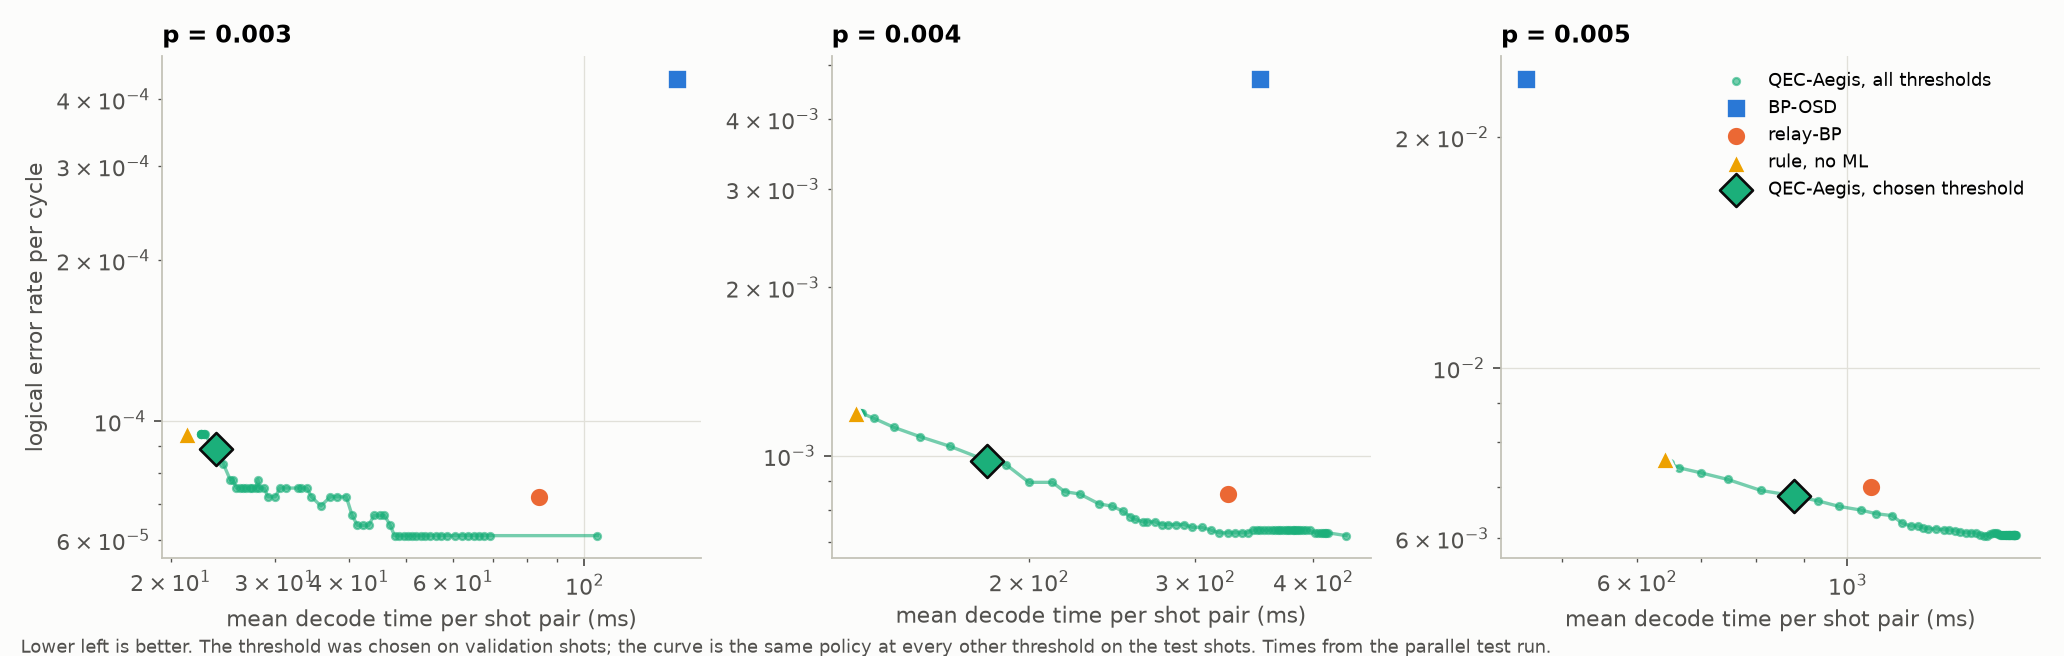
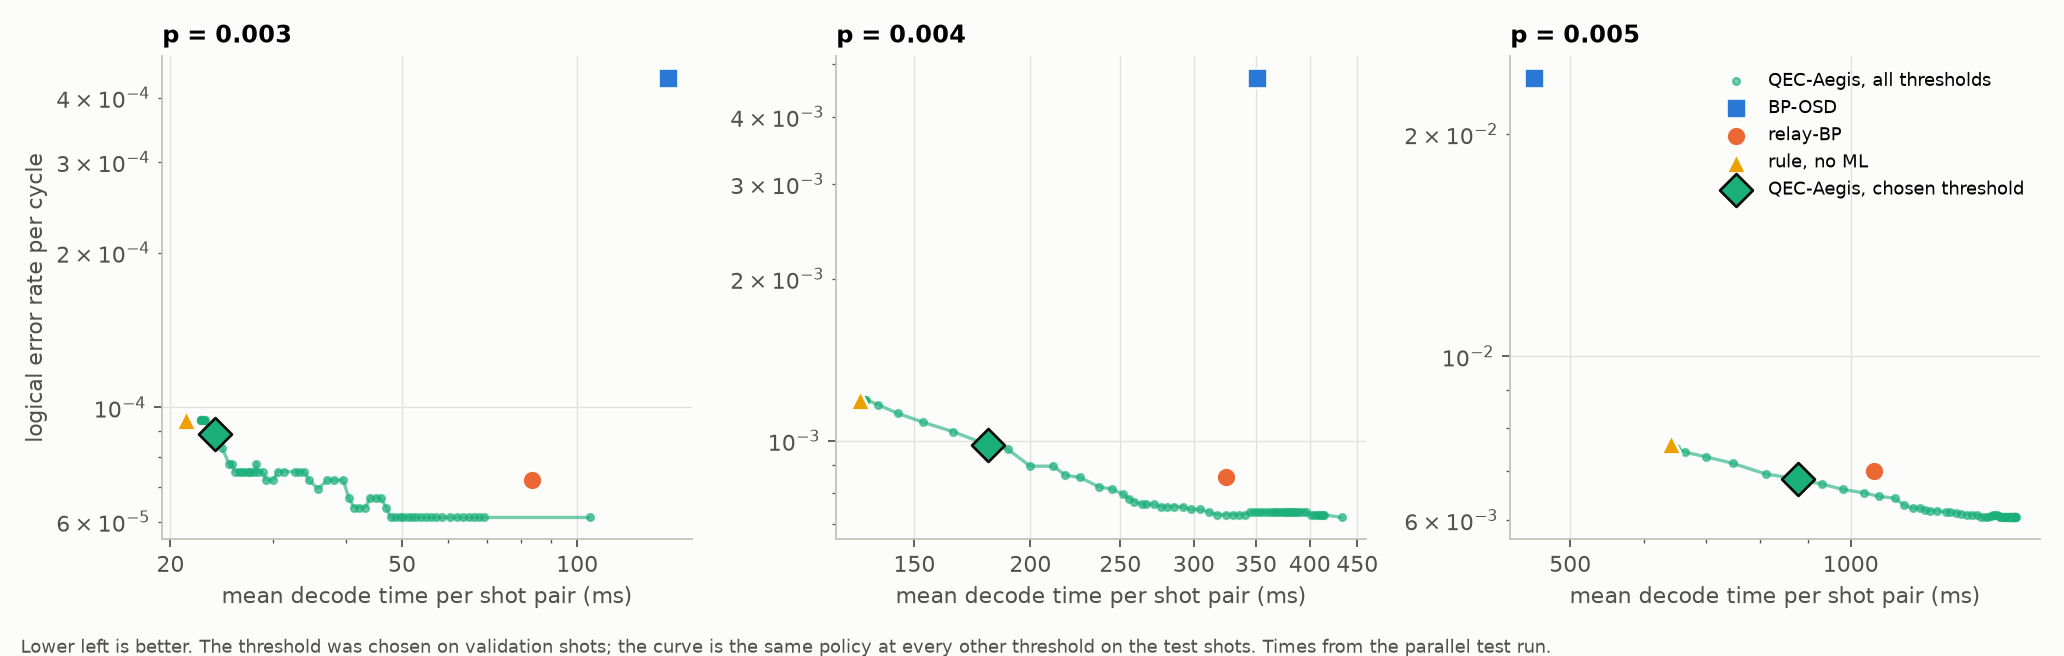
Show every figure: gallery page, README plots, layout fixes
- docs/FIGURES.md: all 13 figures (QEC-Aegis and the erasure study), each
  with what it shows and how to read it.
- README: full-width latency and trade-off plots, plus calibration and
  routing under "Why the machine learning works"; links to the gallery.
- docs/EVALUATION.md: embeds the v1 and v2 plots next to their results.
- aegis/figures.py: captions no longer overlap the axes (v2_latency), plain
  log tick labels (pareto, loss, v2_tradeoff), and routing labels sit above
  their bars and show 0.045% instead of 0.0%.

diff --git a/aegis/figures.py b/aegis/figures.py
@@ -46,12 +46,20 @@ def rows(result):
             for key in STYLE if key == "aegis" or key in result["decoders"]}
 
 
-def save(fig, name):
+def save(fig, name, caption_lines=0):
+    """caption_lines: lines of fig.text caption at the bottom; the axes are kept clear of them."""
     FIGURES.mkdir(parents=True, exist_ok=True)
-    fig.tight_layout()
+    fig.tight_layout(rect=(0, 0.035 * caption_lines, 1, 1))
     fig.savefig(FIGURES / name, dpi=160)
     plt.close(fig)
     print("wrote", FIGURES / name)
+
+
+def plain_log_ticks(axis):
+    """Log axis labelled 10, 20, 50, 100 ... instead of overlapping 2×10^1, 3×10^1 labels."""
+    axis.set_major_locator(LogLocator(subs=(1, 2, 5)))
+    axis.set_major_formatter(FuncFormatter(lambda v, _: f"{v:g}"))
+    axis.set_minor_formatter(NullFormatter())
 
 
 def ler_vs_p(report):
@@ -92,7 +100,7 @@ def latency(report):
         ax.grid(axis="x", visible=False)
     axes[0].legend(loc="upper left")
     fig.text(0.01, 0.005, f"Latency run: {note}. Pair time = X decode + Z decode. Labels in ms.", fontsize=8, color=MUTED)
-    save(fig, "latency.png")
+    save(fig, "latency.png", caption_lines=1)
 
 
 def pareto(report):
@@ -113,11 +121,12 @@ def pareto(report):
         ax.scatter(d["ms_mean"], d["ler"], s=110, color="#1baf7a", marker="D", edgecolor=INK, linewidth=1.2, zorder=4,
                    label="QEC-Aegis, chosen threshold")
         ax.set(xscale="log", yscale="log", xlabel="mean decode time per shot pair (ms)", title=f"p = {p}")
+        plain_log_ticks(ax.xaxis)
     np.atleast_1d(axes)[0].set_ylabel("logical error rate per cycle")
     np.atleast_1d(axes)[-1].legend(fontsize=8, loc="upper right")
     fig.text(0.01, 0.005, "Lower left is better. The threshold was chosen on validation shots; the curve is the same policy at every other "
              "threshold on the test shots. Times from the parallel test run.", fontsize=8, color=MUTED)
-    save(fig, "pareto.png")
+    save(fig, "pareto.png", caption_lines=1)
 
 
 def routing(report):
@@ -128,9 +137,10 @@ def routing(report):
     unconverged = np.array([100 * q["unconverged"] / q["shots"] for q in d])
     flagged = np.array([100 * q["flagged_by_model"] / q["shots"] for q in d])
     axes[0].bar(x, unconverged, 0.5, color="#eda100", label="tier 1 did not converge")
-    axes[0].bar(x, flagged, 0.5, bottom=unconverged + 0.02 * (unconverged + flagged).max(), color="#1baf7a", label="flagged by the risk model")
+    gap = 0.02 * (unconverged + flagged).max()          # white line between the two causes
+    axes[0].bar(x, flagged, 0.5, bottom=unconverged + gap, color="#1baf7a", label="flagged by the risk model")
     for i, total in enumerate(unconverged + flagged):
-        axes[0].text(i, total * 1.04 + 0.05, f"{total:.1f}%", ha="center", fontsize=9, color=INK)
+        axes[0].text(i, unconverged[i] + gap + flagged[i] + 2 * gap, f"{total:.2g}%", ha="center", va="bottom", fontsize=9, color=INK)
     axes[0].set(xticks=x, xticklabels=[f"p = {p}" for p in ps], ylabel="shots sent to tier 2 (%)", title="How often tier 2 runs")
     axes[0].legend(loc="upper left")
     axes[0].grid(axis="x", visible=False)
@@ -172,10 +182,11 @@ def loss(report):
                 xticks=[float(f) for f in fs], title="Using the herald flags, p = 0.004")
     axes[1].set(yscale="log", xlabel="fraction f of gate noise converted to heralded erasure", ylabel="mean decode time per shot pair (ms)",
                 xticks=[float(f) for f in fs], title="Decode time")
+    plain_log_ticks(axes[1].yaxis)
     axes[0].legend(fontsize=8)
     fig.text(0.01, 0.005, "Simplified heralded-erasure model. Dashed: herald flags ignored. Solid: flags used as per-shot priors. "
              "A point at zero failures is drawn at its upper 95% bound's lower edge.", fontsize=8, color=MUTED)
-    save(fig, "loss.png")
+    save(fig, "loss.png", caption_lines=1)
 
 
 def calibration():
@@ -246,7 +257,7 @@ def v2_latency(v2):
     pairs = " / ".join(f"{v2['timing'][p]['decoders']['relay']['pairs']:,}" for p in ps)
     fig.text(0.01, 0.005, f"Fresh timing shots (seed 8): one worker, mains power, nothing else running; {pairs} pairs. "
              "Pair time = X decode + Z decode.\nMean: 95% bootstrap intervals. p99 rests on 5–20 shots.", fontsize=8, color=MUTED)
-    save(fig, "v2_latency.png")
+    save(fig, "v2_latency.png", caption_lines=2)
 
 
 def v2_tradeoff(v2):
@@ -262,14 +273,12 @@ def v2_tradeoff(v2):
                         xerr=[[t["ms_mean"] - tlow], [thigh - t["ms_mean"]]], color=color, marker=marker, ms=8, lw=1.2,
                         capsize=2, label=label, markeredgecolor=SURFACE)
         ax.set(xscale="log", yscale="log", xlabel="mean decode time per shot pair (ms)", title=f"p = {p}")
-        ax.xaxis.set_major_locator(LogLocator(subs=(1, 2, 5)))
-        ax.xaxis.set_major_formatter(FuncFormatter(lambda v, _: f"{v:g}"))
-        ax.xaxis.set_minor_formatter(NullFormatter())
+        plain_log_ticks(ax.xaxis)
     axes[0].set_ylabel("logical error rate per cycle")
     axes[-1].legend(fontsize=8, loc="upper right")
     fig.text(0.01, 0.005, "Lower left is better. Error rate: fresh test shots (seed 7). Time: fresh single-worker timing shots (seed 8). "
              "Bars: 95% intervals.", fontsize=8, color=MUTED)
-    save(fig, "v2_tradeoff.png")
+    save(fig, "v2_tradeoff.png", caption_lines=1)
 
 
 def main():

diff --git a/docs/FIGURES.md b/docs/FIGURES.md
@@ -1,0 +1,117 @@
+# Figures
+
+Every plot in this repository, with what it shows and how to read it.
+- **Generated, not drawn by hand:** QEC-Aegis figures come from the stored evaluations (`python -m aegis.figures`); the erasure-study figures come from the kit (`challenge-1-ml-decoder-kit/make_figures.py`).
+- **Consistent colours:** each decoder keeps its colour in every plot: BP-OSD blue, relay-BP orange, QEC-Aegis green.
+- **Lower is better** on every axis.
+
+## Contents
+- [Headline comparison: QEC-Aegis v2 on fresh shots](#headline-comparison-qec-aegis-v2-on-fresh-shots)
+  - [1. Logical error rate against noise](#1-logical-error-rate-against-noise)
+  - [2. Decoding latency](#2-decoding-latency)
+  - [3. Accuracy against speed](#3-accuracy-against-speed)
+- [Why the machine learning works](#why-the-machine-learning-works)
+  - [4. The risk model is calibrated](#4-the-risk-model-is-calibrated)
+  - [5. What the router does](#5-what-the-router-does)
+  - [6. The threshold trade-off](#6-the-threshold-trade-off)
+- [QEC-Aegis v1 on the frozen test shots (seed 2)](#qec-aegis-v1-on-the-frozen-test-shots-seed-2)
+  - [7. Logical error rate](#7-logical-error-rate)
+  - [8. Latency](#8-latency)
+  - [9. Under heralded erasure](#9-under-heralded-erasure)
+- [Companion study: erasure flags](#companion-study-erasure-flags)
+  - [10. relay-BP with and without flags](#10-relay-bp-with-and-without-flags)
+  - [11. BP-OSD with and without flags](#11-bp-osd-with-and-without-flags)
+  - [12. Hybrid decoder latency](#12-hybrid-decoder-latency)
+  - [13. Latency with both baselines](#13-latency-with-both-baselines)
+
+---
+
+## Headline comparison: QEC-Aegis v2 on fresh shots
+
+### 1. Logical error rate against noise
+![Logical error rate per cycle against p, every decoder, fresh test shots](figures/v2_ler_vs_p.png)
+
+The challenge's required sweep, p = 0.003, 0.004, 0.005. All three QEC-Aegis variants lie on relay-BP's line and far below BP-OSD. At p = 0.005, accuracy mode is the lowest point, significantly below relay-BP (McNemar p = 0.002). Seed 7: 30,000, 10,000 and 5,000 X/Z pairs. Bars are exact 95% intervals.
+
+### 2. Decoding latency
+![Mean and 99th-percentile decode time per X/Z pair, single worker](figures/v2_latency.png)
+
+- **Left, mean time:** QEC-Aegis beats relay-BP at every p: 4.5× faster at p = 0.003 and 1.7× at p = 0.004 (v1), and 1.5× at p = 0.005 (v2 speed).
+- **Right, slowest 1% of shots:** here QEC-Aegis is slower than relay-BP at p ≥ 0.004, because a shot that escalates pays for both tiers. This is its main weakness.
+
+Measured on separate timing shots (seed 8), one worker, nothing else running.
+
+### 3. Accuracy against speed
+![Error rate against mean decode time at each p](figures/v2_tradeoff.png)
+
+Each decoder is one point; lower left is better.
+- At p = 0.003 and 0.004, QEC-Aegis sits to the left of relay-BP: much faster, with overlapping error bars.
+- At p = 0.005, v2 speed mode is the fastest of the accurate decoders, and accuracy mode is the most accurate.
+- BP-OSD is fast at p = 0.005 but 3× less accurate.
+
+---
+
+## Why the machine learning works
+
+### 4. The risk model is calibrated
+![Calibration of the risk model on validation shots](figures/calibration.png)
+
+The model's predicted probability that a converged tier-1 answer is wrong, against how often it really was wrong, on validation shots. Points follow the diagonal from about 1e-3 to 0.5, so a threshold means the same thing at every noise level. The lowest bin is the exception: predicted about 7e-6, observed about 1e-4. Very low risks are underestimated, though that bin holds only a handful of wrong answers.
+
+### 5. What the router does
+![How often tier 2 runs, and wrong tier-1 answers caught or missed](figures/routing.png)
+
+- **Left:** only 0.045%, 1.1% and 6.8% of shots go to tier 2. Orange shots had a tier 1 that did not converge; green shots were flagged by the model.
+- **Right:** converged-but-wrong answers, the failures a convergence check cannot see. The model catches 6 of 30, 47 of 115 and 115 of 245. The misses are why an oracle router would still fail 1.3–1.9× less often.
+
+Shown for v1 on the seed-2 test shots.
+
+### 6. The threshold trade-off
+![Error rate against time for every threshold, seed-2 test shots](figures/pareto.png)
+
+- **Green curve:** the same routed decoder at every threshold, from "never escalate" on the left to "escalate often" on the right.
+- **Large diamond:** the threshold chosen on validation shots before testing; the test curve confirms it was a sensible choice.
+- **Orange triangle ("rule, no ML"):** escalates only non-converged shots. It is faster but less accurate, which shows the learned model buys accuracy.
+
+Times are from the parallel test run.
+
+---
+
+## QEC-Aegis v1 on the frozen test shots (seed 2)
+
+### 7. Logical error rate
+![Logical error rate, v1, seed-2 test shots](figures/ler_vs_p.png)
+
+v1 against the baselines on the first frozen test set. Its error rate is statistically indistinguishable from relay-BP's at every p.
+
+### 8. Latency
+![Mean and 99th-percentile latency, v1, single worker](figures/latency.png)
+
+Single-worker timing shots (seed 5).
+- **Mean time:** 12 vs 34 ms and 60 vs 125 ms against relay-BP at p = 0.003 and 0.004; only 885 vs 988 ms at p = 0.005.
+- **Slowest 1%:** worse than relay-BP at p = 0.005. This result motivated v2.
+
+### 9. Under heralded erasure
+![Error rate and decode time with herald flags at p = 0.004](figures/loss.png)
+
+Part of the noise (fraction f) is converted into flagged erasures at p = 0.004. Dashed lines ignore the flags; solid lines use them as per-shot priors.
+- **Accuracy:** QEC-Aegis with flags is within the error bars of flag-aware relay-BP at f = 0.5 and 0.75, but worse at f = 0.25 (7 vs 2 failed pairs, McNemar p = 0.06). v2 closes that gap on fresh shots.
+- **Time:** it is the fastest decoder at f = 0.25 and 0.5.
+- **Zero failures:** a decoder with zero failures (BP-OSD at f = 0.75) is drawn at the bottom of the axis.
+
+---
+
+## Companion study: erasure flags
+From [ERASURE.md](ERASURE.md), produced by the challenge kit.
+
+### 10. relay-BP with and without flags
+![relay-BP with erasure flags](../challenge-1-ml-decoder-kit/figures/relay_flags.png)
+
+### 11. BP-OSD with and without flags
+![BP-OSD with erasure flags across erasure fractions](../challenge-1-ml-decoder-kit/figures/erasure.png)
+
+### 12. Hybrid decoder latency
+![Decode time of relay-BP and the hybrid decoders](../challenge-1-ml-decoder-kit/figures/speed.png)
+
+### 13. Latency with both baselines
+![Local latency comparison with BP-OSD and relay-BP](../challenge-1-ml-decoder-kit/figures/speed_local.png)

diff --git a/README.md b/README.md
@@ -42,11 +42,22 @@ Same fresh shots for every decoder (seed 7: 30,000 / 10,000 / 5,000 independent 
 All limitations: [`docs/EVALUATION.md`](docs/EVALUATION.md#where-it-works-and-where-it-falls-short).
 
 <p align="center">
-  <img src="docs/figures/v2_ler_vs_p.png" alt="Logical error rate per cycle against p for every decoder" width="49%">
-  <img src="docs/figures/v2_tradeoff.png" alt="Error rate against mean decode time at each p" width="49%">
+  <img src="docs/figures/v2_ler_vs_p.png" alt="Logical error rate per cycle against p for every decoder" width="70%">
 </p>
 
 ![Mean and 99th-percentile decode time per X/Z pair, single worker](docs/figures/v2_latency.png)
+![Error rate against mean decode time at each p; lower left is better](docs/figures/v2_tradeoff.png)
+
+**Why the machine learning works.**
+- **Calibrated (left):** the model's predicted risk matches how often tier 1 is really wrong, so one threshold works at every noise level.
+- **Selective (right):** only 0.045–6.8% of shots go to tier 2. Many of the converged-but-wrong answers that a convergence check cannot see are caught; the rest are the headroom.
+
+<p align="center">
+  <img src="docs/figures/calibration.png" alt="Calibration: predicted risk against observed fraction of wrong tier-1 answers" width="38%">
+  <img src="docs/figures/routing.png" alt="How often tier 2 runs, and converged-but-wrong answers caught or missed" width="60%">
+</p>
+
+**All 13 figures**, each with how to read it, are in [`docs/FIGURES.md`](docs/FIGURES.md).
 
 ## Quickstart
 Tested with Python 3.13. `relay-bp` builds with Rust ([rustup.rs](https://rustup.rs)).
@@ -100,7 +111,7 @@ scripts/
   reproduce.sh                 one-command verification of every result
   run_fresh_evaluation.sh      decode the fresh test and timing shots from scratch
 tests/                       QEC-Aegis tests (55)
-docs/                        architecture, results, evaluation, presentation, erasure study
+docs/                        architecture, results, figures, evaluation, presentation, erasure study
 challenge-1-ml-decoder-kit/  the challenge kit, the erasure study and the team's baselines
 ```
 
@@ -110,6 +121,7 @@ challenge-1-ml-decoder-kit/  the challenge kit, the erasure study and the team's
 |---|---|
 | [`docs/ARCHITECTURE.md`](docs/ARCHITECTURE.md) | The idea from first principles, a code tour in reading order, and the data flow |
 | [`docs/RESULTS.md`](docs/RESULTS.md) | Every result table, generated from the stored evaluation |
+| [`docs/FIGURES.md`](docs/FIGURES.md) | Every plot, with what it shows and how to read it |
 | [`docs/EVALUATION.md`](docs/EVALUATION.md) | Full discussion: v1 and v2, where it works and falls short, data and seeds |
 | [`docs/PRESENTATION.md`](docs/PRESENTATION.md) | The five-slide talk |
 | [`docs/ERASURE.md`](docs/ERASURE.md) | Companion study: decoding with erasure (loss) flags, the hybrid decoder and the ML router |

diff --git a/docs/EVALUATION.md b/docs/EVALUATION.md
@@ -13,6 +13,14 @@ The headline numbers are in the [README](../README.md); every generated table is
 
 Error rates are statistically indistinguishable from relay-BP at every p; the point estimate is worse at p = 0.003 and 0.004 (LER ratio 1.27 and 1.17, both intervals include 1). Times are from separate single-worker timing shots (seed 5). The gain shrinks with noise as more shots need tier 2 (0.04%, 1.1% and 6.8% escalated), and at p = 0.005 the slowest 1% are slower than relay-BP. The required sweep (LER, latency percentiles and per-decoder resources for BP-OSD, relay-BP and QEC-Aegis side by side) is the first section of [docs/RESULTS.md](RESULTS.md), followed by the oracle-router bound, erasure settings and calibration; verify with `scripts/reproduce.sh`.
 
+![Logical error rate, v1, seed-2 test shots](figures/ler_vs_p.png)
+![Mean and 99th-percentile latency, v1, single worker](figures/latency.png)
+![Error rate against time for every threshold](figures/pareto.png)
+![How often tier 2 runs; converged-but-wrong answers caught or missed](figures/routing.png)
+![Error rate and decode time with herald flags at p = 0.004](figures/loss.png)
+
+What each plot shows: [FIGURES.md](FIGURES.md).
+
 ## v2 on fresh shots (seeds 7 and 8)
 **QEC-Aegis v2 (fresh shots).** v2 keeps v1's risk models but picks the second tier and threshold separately for each setting, on validation shots only, in two modes: *speed* (fastest with no more failed pairs than relay-BP) and *accuracy* (fewest failed pairs, no slower than relay-BP). Its files were hashed in `experiments/reports/v2_frozen.json` before decoding. Because the v1 test results shaped v2, v2 is scored only on fresh shots: seed 7 for error rates, and seed 8 for single-worker timing on mains power with nothing else running. Baselines and v1 were decoded again on the same shots. The risk model now runs as a compiled tree walk (same value as scikit-learn, ~60 µs instead of ~600 µs per call), and v1 uses it too here.
 
@@ -23,6 +31,9 @@ Error rates are statistically indistinguishable from relay-BP at every p; the po
 | 0.005 | 407 | 367 | 399 | 359 | 484 / 397 / 325 / 482 |
 
 Test pairs: 30,000, 10,000 and 5,000. Full tables, paired comparisons and erasure settings are in [docs/RESULTS.md](RESULTS.md) under "QEC-Aegis v2 on fresh shots".
+
+![Logical error rate on fresh test shots](figures/v2_ler_vs_p.png)
+![Latency on fresh timing shots](figures/v2_latency.png)
 
 ## Where it works and where it falls short
 
